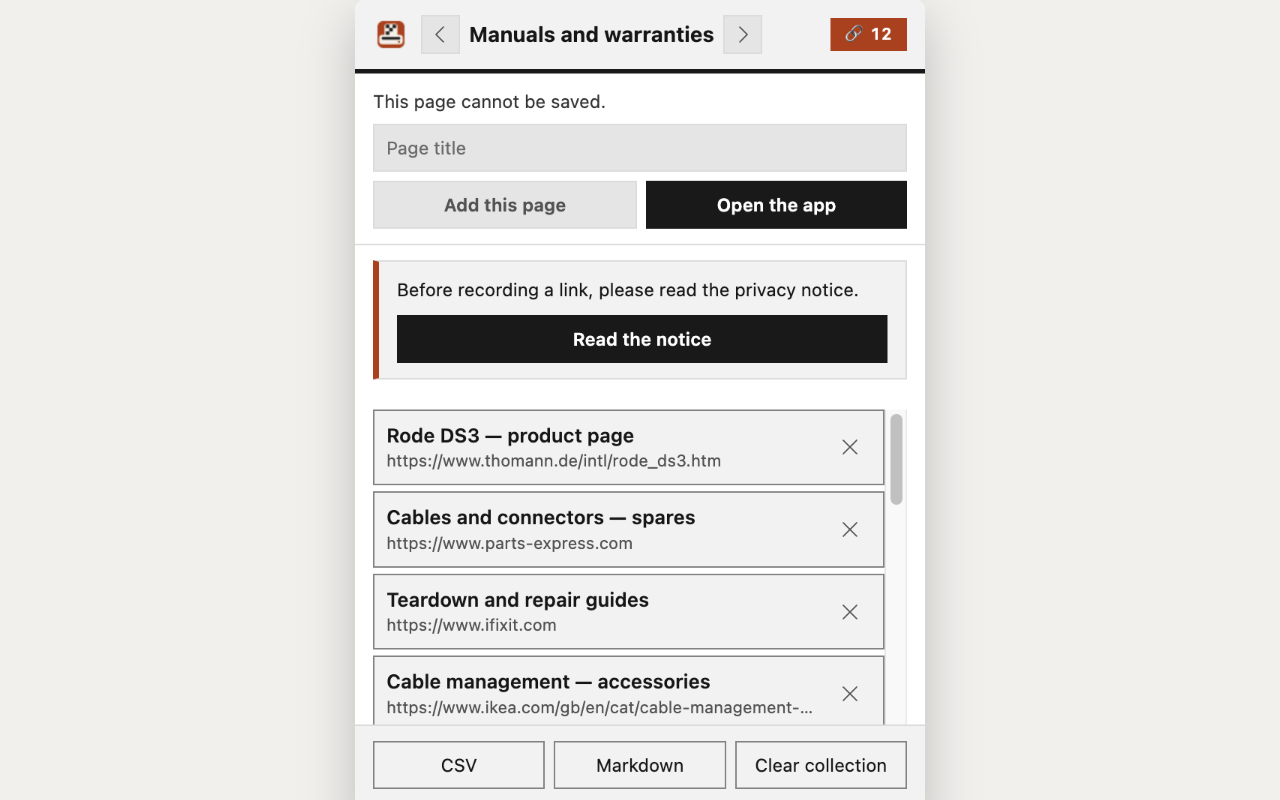
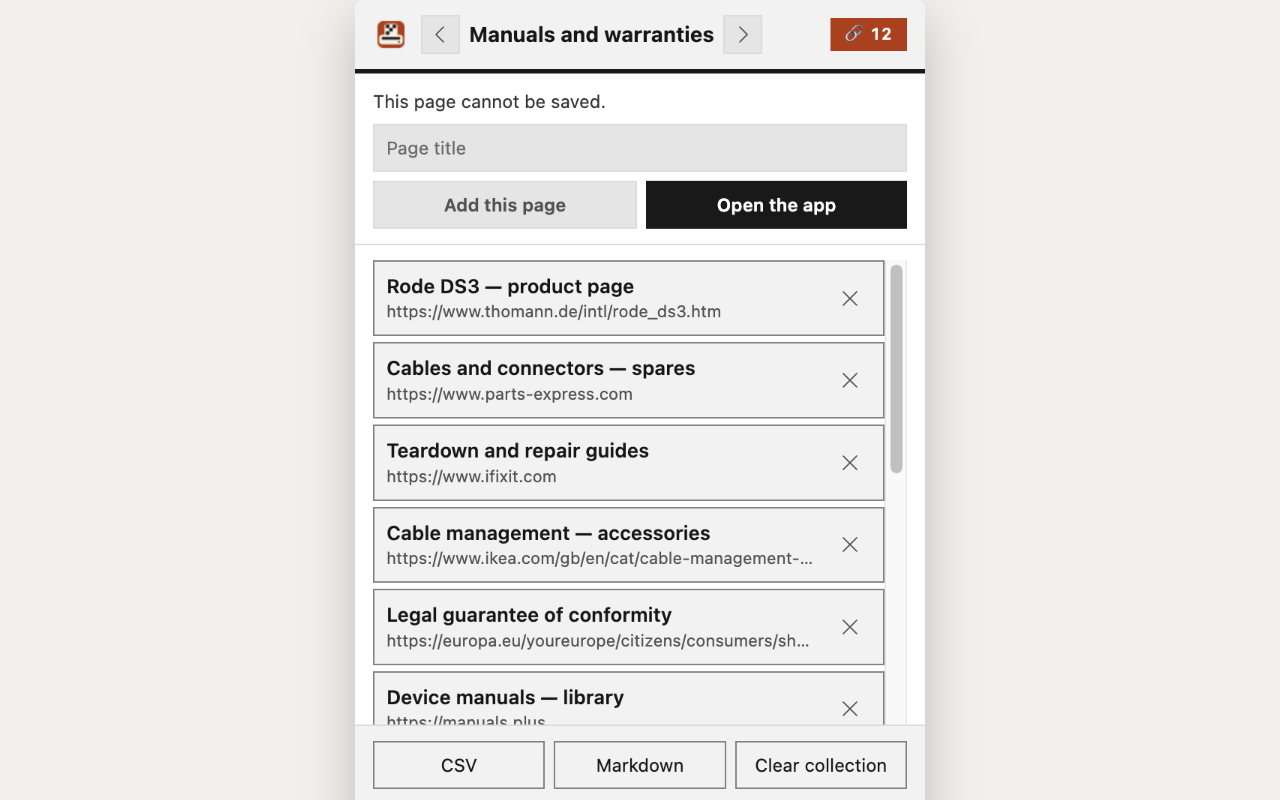
Régénère les captures de la fiche en français et en anglais
Les dix captures 1280 × 800 sont refaites depuis la 0.4.0 : la fenêtre montre la liste avec la mention déjà acceptée dans le stockage d'exemple (sans quoi le bandeau de consentement recouvrait la moitié de l'image), et les captures d'application montrent la barre de collection alignée, « Réorganiser » et « Supprimer ». La page de mention (04) est identique et n'est pas recommitée.

Le script de la fenêtre accepte donc la mention avec la version courante du texte avant de charger le document ; la page 04 montre la mention elle-même. Publication : 15/15, suite : 1088 tests.

Réfs : #7

Changed region(s): [[0.2812, 0.3125, 0.7188, 0.9062]]

diff --git a/store/screenshots/README.md b/store/screenshots/README.md
@@ -8,7 +8,7 @@ Les captures déposées ici partent sur la fiche du Chrome Web Store.
 
 ## Ce qui est en place
 
-Neuf captures, toutes en **1280 × 800**, toutes en RGB sans transparence — le
+Dix captures, toutes en **1280 × 800**, toutes en RGB sans transparence — le
 magasin en accepte cinq au maximum **par langue**, et la documentation
 recommande de les remplir :
 
@@ -60,12 +60,18 @@ Une ancienne `01-fenetre-popup-fr.jpg` (1280 × 800, capture d'écran manuelle d
 un bouton « Tout effacer », et un autre qui n'existe plus — que la version
 déposée n'a plus.
 
+Les deux `01` ont été **régénérées pour la 0.4.0**, le 22 novembre 2026. Le
+stockage d'exemple porte désormais la mention **acceptée**, avec la version
+courante du texte : c'est l'état d'un utilisateur qui l'a déjà lue, et sans cela
+le bandeau de consentement recouvrait la moitié de la liste. La capture `04`
+montre la mention elle-même ; `01` montre la fenêtre ensuite.
+
 `02`, `03`, `04` et `05` sont produites par `scripts/capture-store-shots.mjs` sur
 un **contenu d'exemple** : elles montrent donc la collection d'exemple, avec ses
 tags, ses notes et son nom — et non trois fois la même adresse. Elles ont été
-**régénérées pour la soumission 0.3.2**, après le déplacement d'« Enregistrer »
-et « Nouvelle » sous le nom de collection, la validation explicite du nom et le
-panneau de confirmation de suppression : les captures montrent donc l'interface
+**régénérées pour la soumission 0.4.0**, le 22 novembre 2026 : la barre de
+collection montre les commandes alignées « Réorganiser » et « Supprimer », et le
+panneau de suppression s'ouvre sous elles. Les captures montrent donc l'interface
 réellement déposée.
 
 **Deux contenus, un par langue.** La fiche française se sert de
@@ -77,8 +83,9 @@ française au milieu d'une interface anglaise. Les adresses du fichier anglais
 sont des équivalents anglais ou internationaux (Wikipédia anglais, IKEA UK,
 Europa, Thomann international…), relevés le 4 novembre 2026.
 
-`05` est nouvelle. Sa mise en scène est celle de la 0.3.0, et elle est réelle :
-le script **tape** un nom, vérifie que l'aide d'attente dit ce qu'elle doit dire
+`05` est nouvelle. Sa mise en scène est celle de la 0.3.0, rejouée pour la
+0.4.0, et elle est réelle : le script **tape** un nom, vérifie que l'aide
+d'attente dit ce qu'elle doit dire
 (« Nom en attente… » ou « Pending name… », selon la langue), clique
 « Enregistrer » (il refuse de continuer si le bouton est resté inactif), puis
 ouvre le panneau de suppression de la collection qui vient d'être renommée. Pour
@@ -131,8 +138,8 @@ maquette, pas d'écran inventé.
 Pour ce projet, cinq captures qui se répondent :
 
 1. La fenêtre de l'extension, avec quelques liens déjà collectés. — **en place**
-   (`01`), mais prise sur une interface antérieure : **à refaire** si un emplacement
-   se libère, ce qui n'est plus le cas
+   (`01`), régénérée pour la 0.4.0 ; la mention y est acceptée, comme chez un
+   utilisateur qui l'a lue, pour que le bandeau ne recouvre pas la liste.
 2. La collection dans l'application — son nom, sa note, ses tags, ses liens — puis
    la planche qu'on en tire. — **en place** (`02` pour la collection et la mise en
    forme, `03` pour l'étiquette composée : la page entière ne tient pas dans une
@@ -143,7 +150,8 @@ Pour ce projet, cinq captures qui se répondent :
    la montrer appuie la déclaration faite dans les champs de confidentialité. — **en place** (`04`)
 5. La gestion des collections : le sélecteur, le nom saisi puis enregistré, et le
    panneau de confirmation qui nomme la collection et compte les liens perdus. —
-   **en place** (`05`, nouvelle). C'était le sujet de la 0.3.0, et elle remplace le
+   **en place** (`05`, régénérée pour la 0.4.0). La barre de collection y montre
+   les deux commandes alignées, « Réorganiser » et « Supprimer ». Elle remplace le
    menu contextuel prévu au plan : celui-ci est natif, donc impossible à capturer
    depuis le contenu web, et l'emplacement était le cinquième et dernier.
 

diff --git a/docs/chrome-web-store.md b/docs/chrome-web-store.md
@@ -432,7 +432,7 @@ l'application, site vitrine). Aucune permission nouvelle, aucun réseau nouveau.
 | Tests du produit | `npm test` → **1088 JavaScript + 104 Swift**, tous verts |
 | Tests de la fiche | `test/publication.test.js` → **15/15** |
 | Relevé navigateur | `npm run verify:chrome` → **167/167** constats satisfaits (second passage ; un premier avait échoué sur le badge « + », non reproduit — instabilité suivie par l'issue #6) |
-| Captures d'écran | **10** fichiers (`01` à `05`, `-fr` et `-en`), 1280 × 800, inchangés depuis la 0.3.2 — aucune ne montre encore le panneau d'ordre |
+| Captures d'écran | **10** fichiers (`01` à `05`, `-fr` et `-en`), 1280 × 800, **régénérés le 22 novembre 2026 pour la 0.4.0** — `05` montre les commandes de collection alignées ; `01` est prise avec la mention déjà acceptée pour que le bandeau ne recouvre pas la liste. Aucune ne montre le panneau d'ordre lui-même |
 | Icône de la fiche | `src/extension-src/icons/icon-128.png` — nouvelle marque de la 0.3.2 |
 | Visuels promotionnels | `store/promo/promo-440x280.jpg` et `store/promo/marquee-1400x560.jpg` — inchangés |
 | Note de version | Lue dans `CHANGELOG.md` / `CHANGELOG.fr.md`, entrée `0.4.0` |
